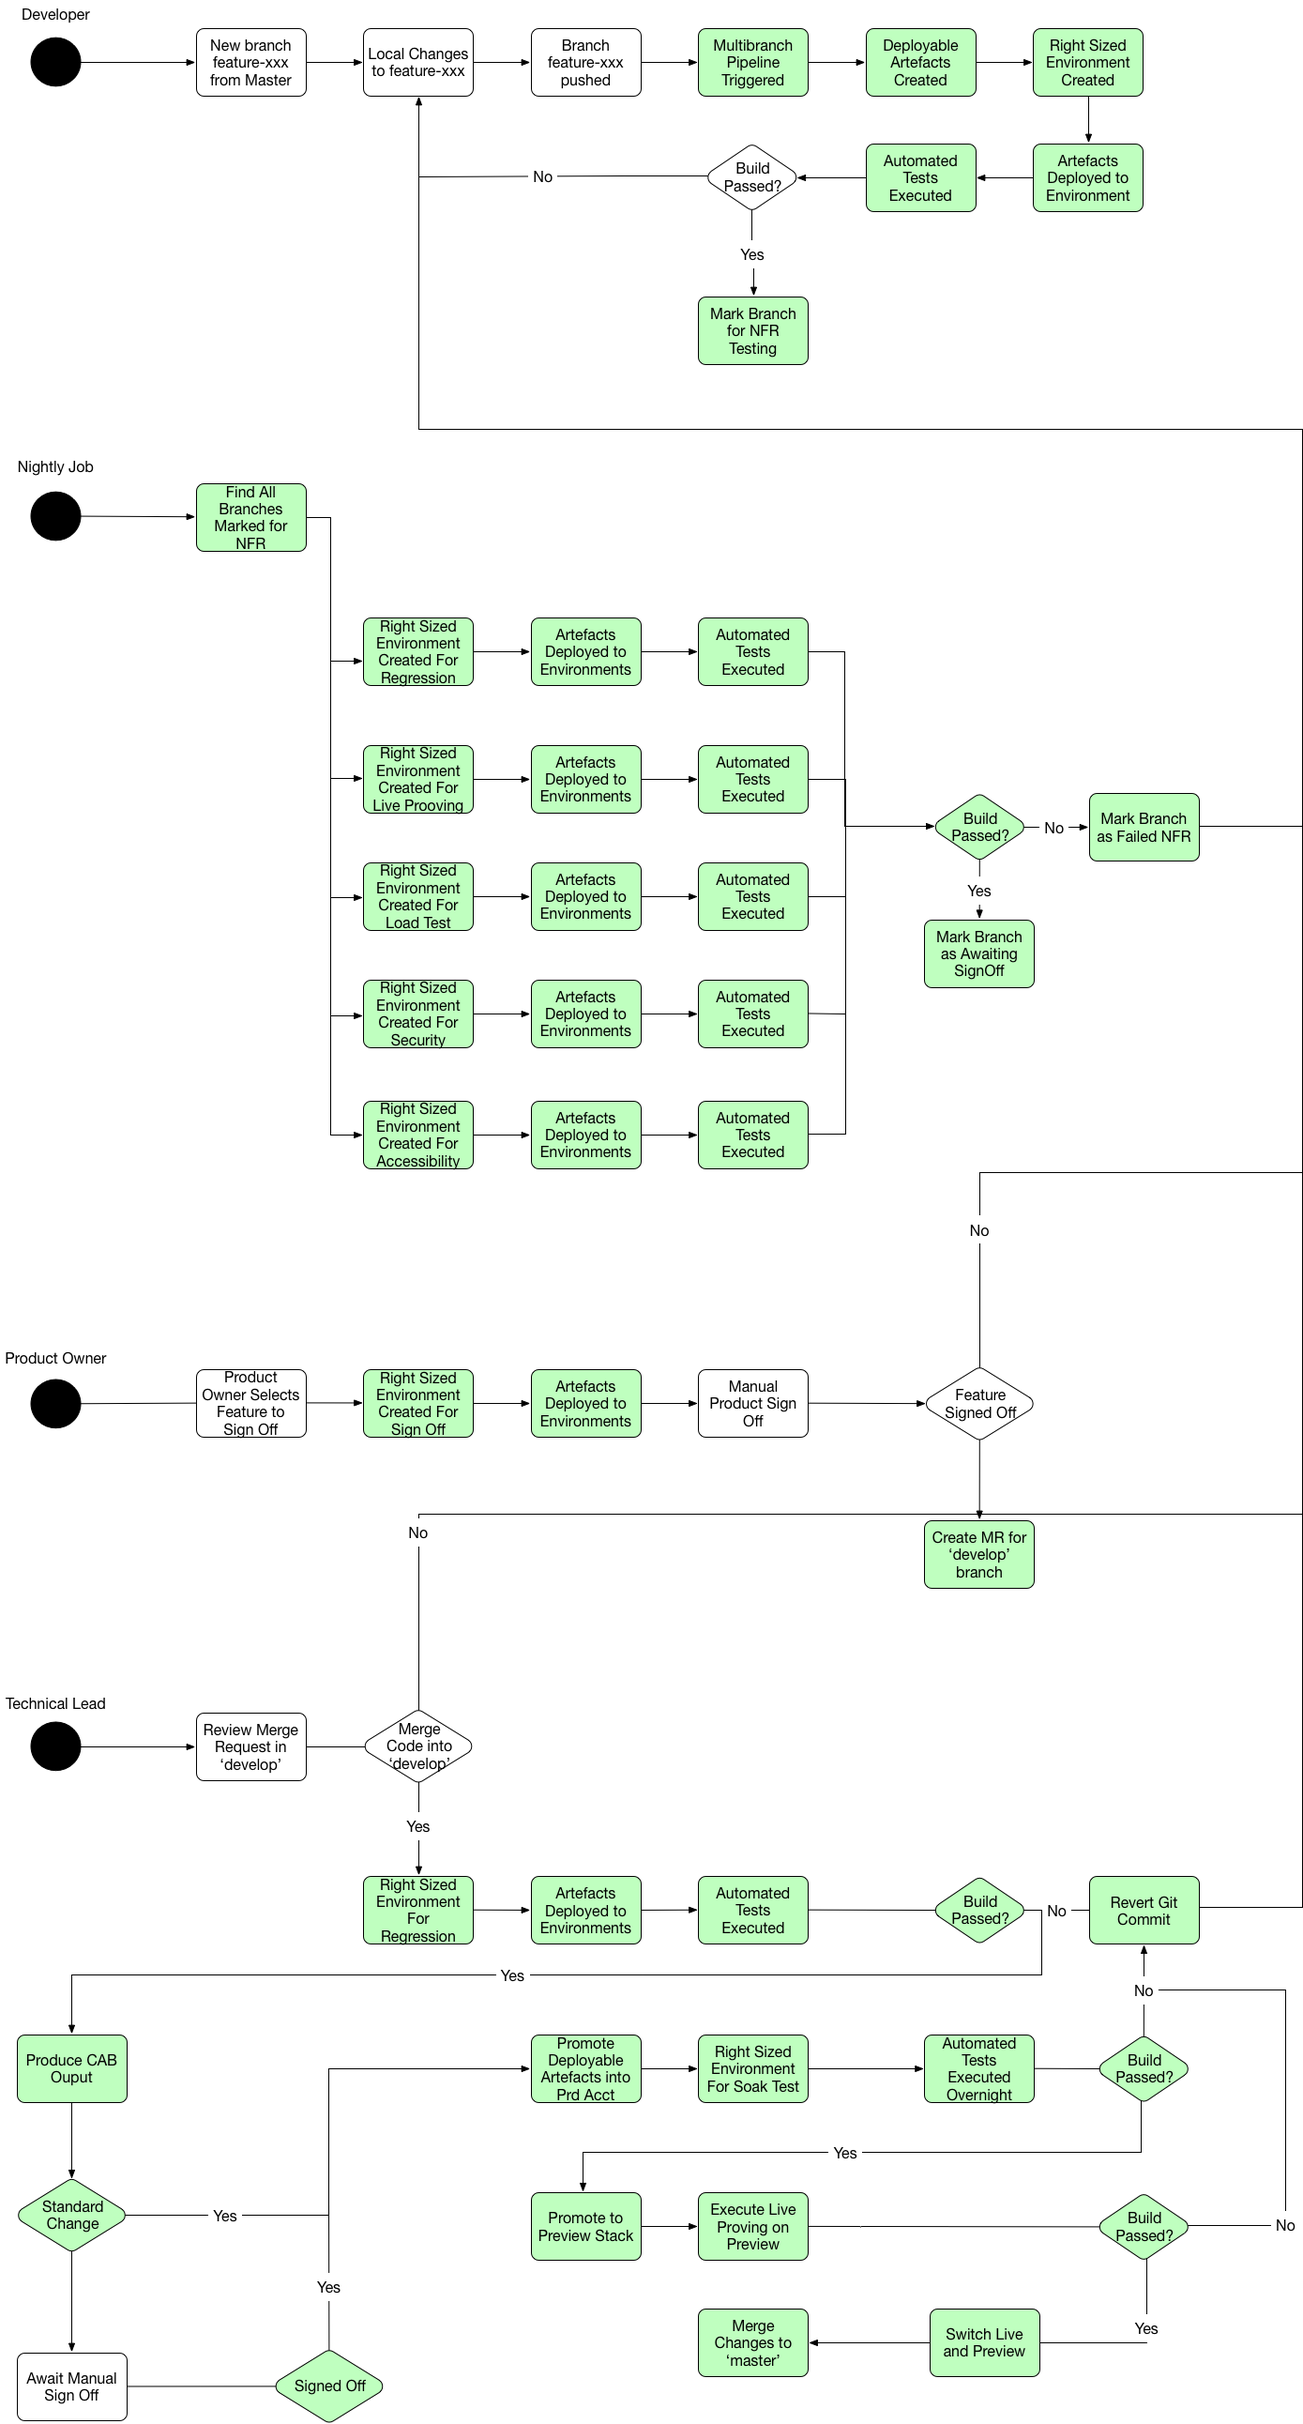
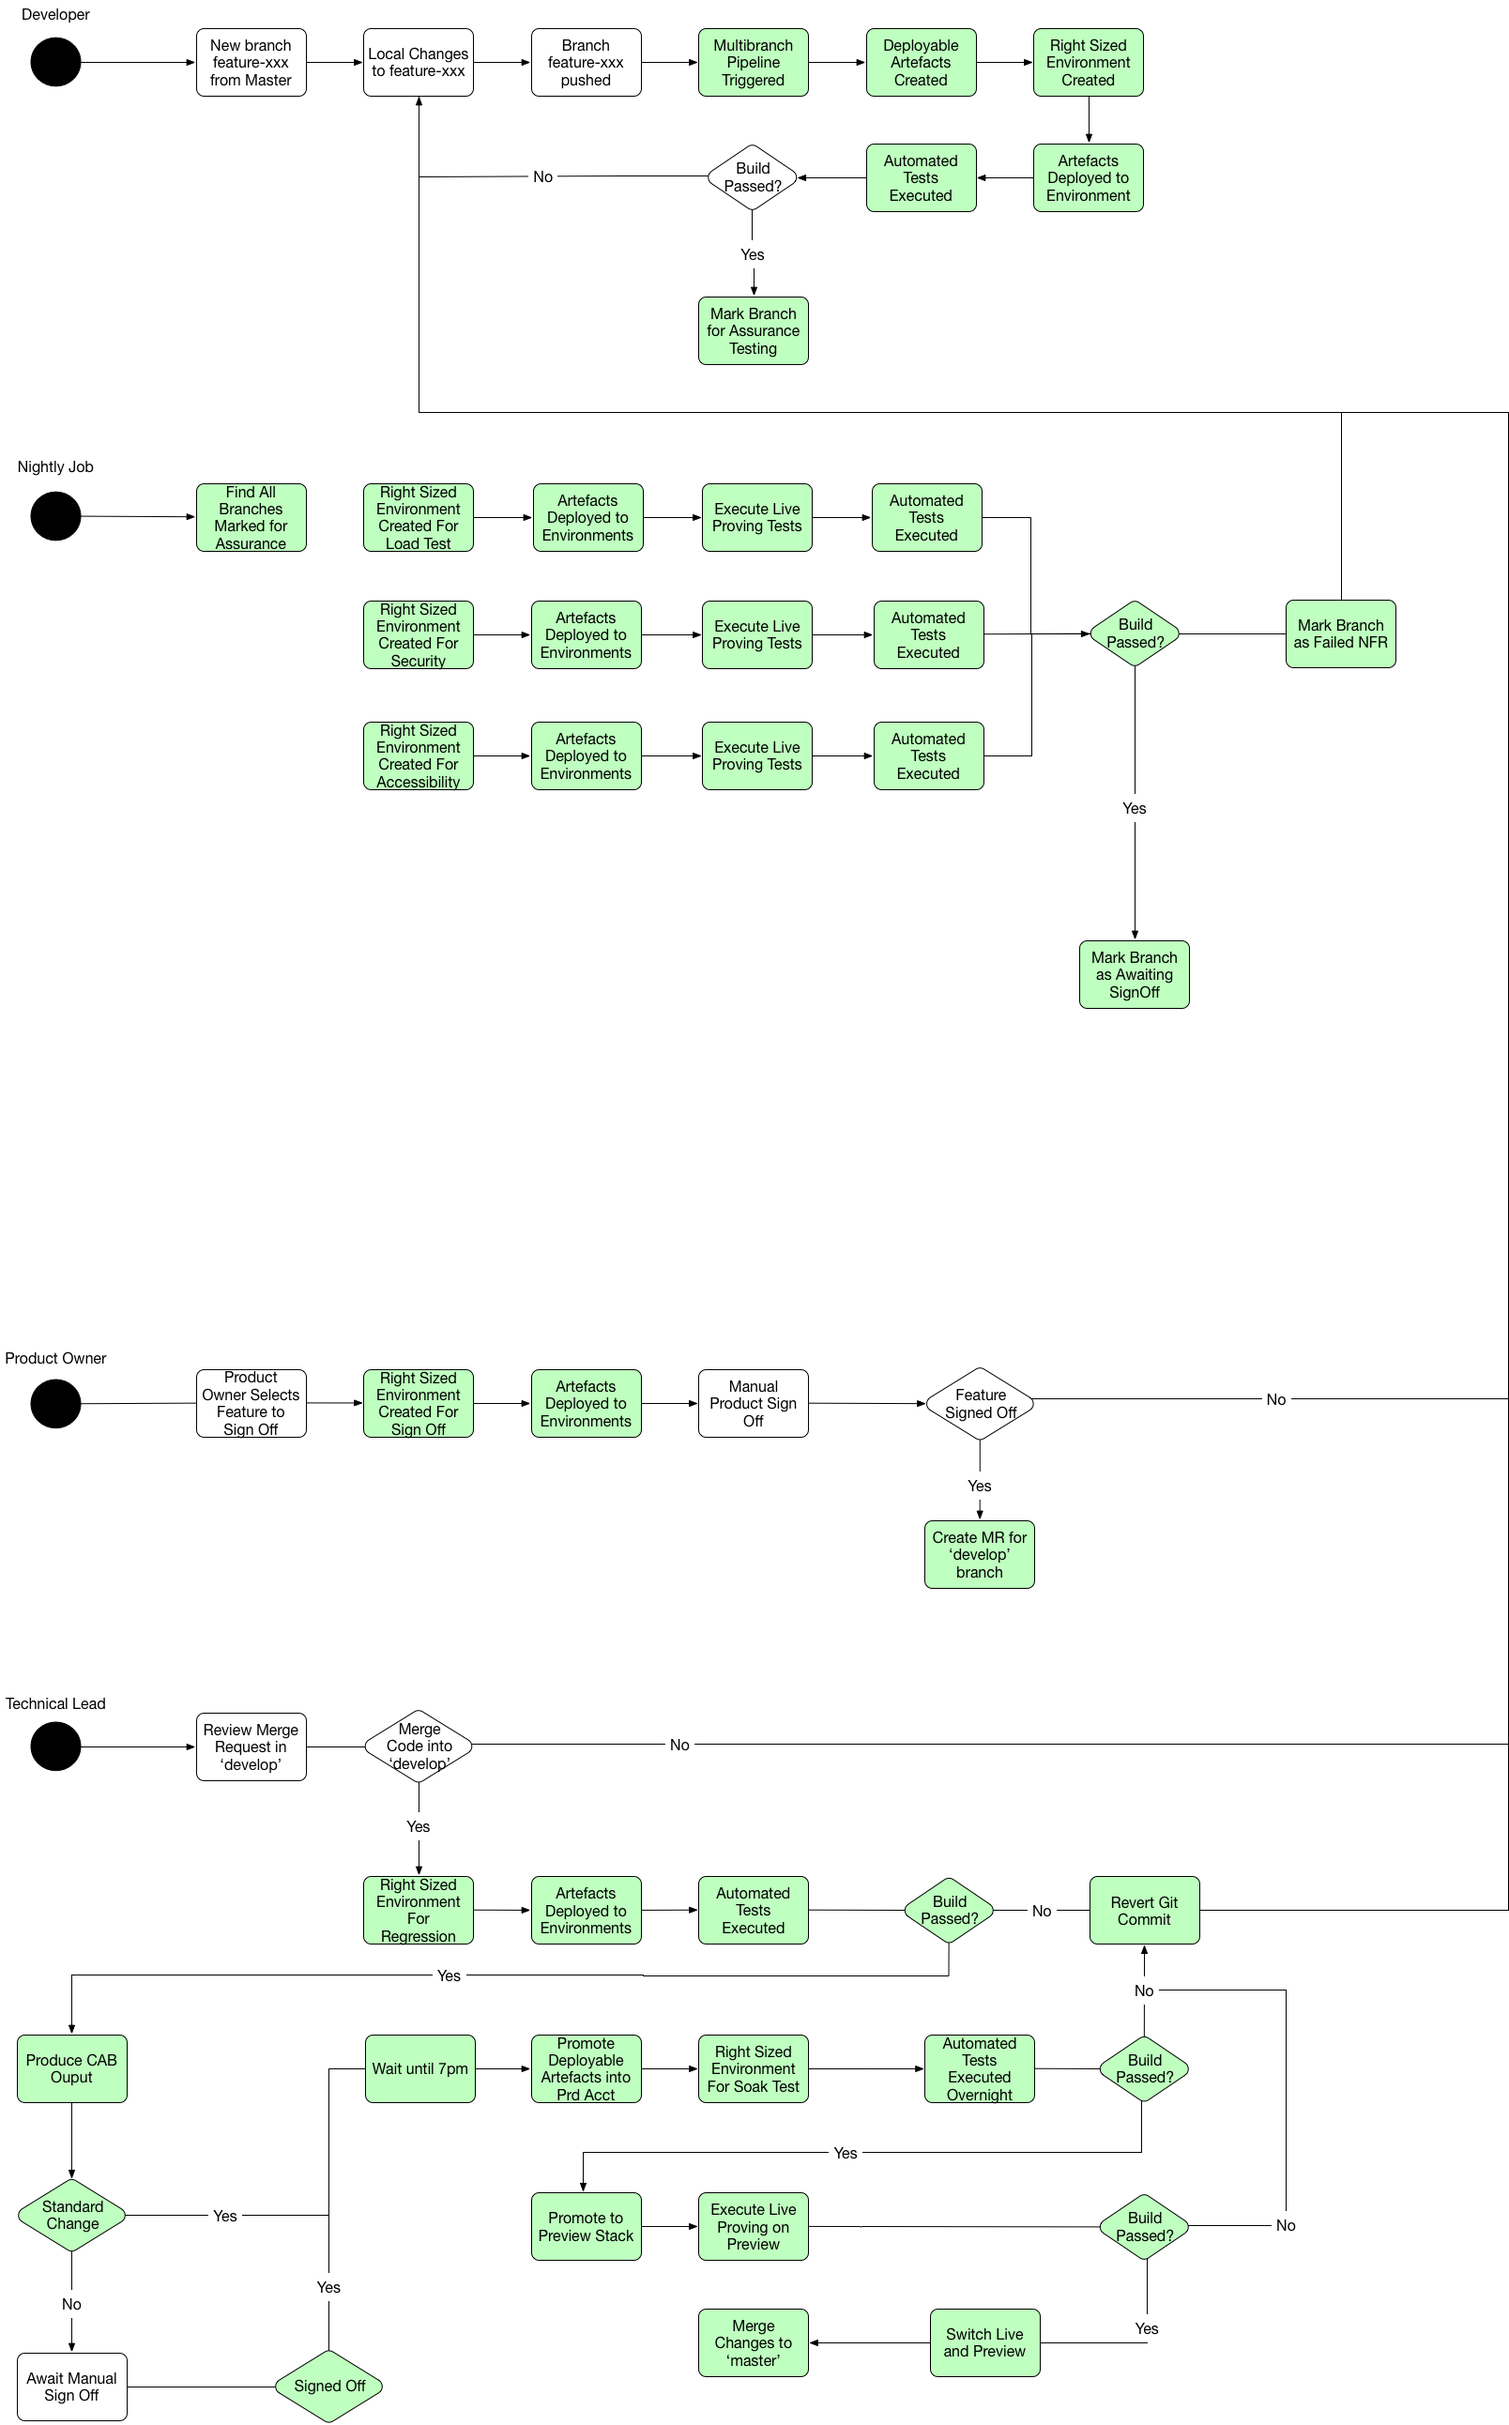
More refinements

diff --git a/source/documentation/pipeline/pipeline.md b/source/documentation/pipeline/pipeline.md
@@ -35,44 +35,50 @@ It was stated at the outset that it should be possible to deliver software into 
 
 The thrust of the new pipeline is not to necessarily remove steps, as Acceptance, Non Functional Testing, Deployment Testing are valid tests. The intention here is to provide an automated way of executing these stages and a means to execute them a lot earlier in the process. 
 
-An adpatation of the existing merging strategy is to move more towards the Gitflow(https://datasift.github.io/gitflow/IntroducingGitFlow.html) Merging into the 'develop' branch is the trigger for that code to make its way into production. It should only be merged into 'develop' once functional and non-functional testing has been successfully executed. The full flow is defined below.
+An adpatation of the existing merging strategy is to move more towards the [Gitflow](https://datasift.github.io/gitflow/IntroducingGitFlow.html) merging strategy. Merging into the 'develop' branch is the trigger for that code to make its way into production. It should only be merged into 'develop' once functional and non-functional testing has been successfully executed. The full flow is defined below.
 
 ![pipeline_target](images/pipeline_proposed.png)
 
-Whilst this is a relatively long winded process diagram, the green boxes are assumed to be automated. There should be minimal manual intervention. Redudcing the manual input would allow the automated testing to complete during the day, a final Performance Soak Test to be performed overnight and then appear in Production the next day after sign off.
+Whilst this is a relatively long winded process diagram, the green boxes are assumed to be automated. There should be minimal manual intervention. 
+
+The two key significant manual steps are the PO sign off and the Tech Lead merge into Develop. The point at which the feature is merged into Develop the feature will be live that evening, this is the point of no return and all downstream tasks are automated. 
+
+If, for any reason, there is a failure, either the Soak Test or Live Proving, then the entire suit of commits will be reverted. Again an automated process with zero manual intervention.
 
 ## Transition to the New Pipeline
 
-Comparing the two flow diagrams side by side, demonstrates that there is a significant distance to travel to achieve our targetted deployment pipeline. The intention of this section is to identify at a high level the necessary steps to achieve this.
+Comparing the two flow diagrams side by side, demonstrates that there is a significant distance to travel to achieve our targeted deployment pipeline. The intention of this section is to identify at a high level the necessary steps to achieve this.
 
-The underpinning pre-requisite to achieve all this is a consistent environment, yet this needs to be delivered in a backdrop of running a live service and delivering new features for that service.
+This entire improvement is predicated on consistent environments. The only way to confidently push changes from development through to production is by having complete faith that the application with behave the same in each 'environment'. Whilst tempting to start again and rebuild everything and halting all feature changes, this is not reasonable. The challenge is therefore to deliver continuous delivery, whilst maintaining feature releases.  
 
-### Adjust Development Pipeline
+Therefore, the first task to consider is adjusting the pipeline to cater for both these requirements in parallel. 
+
+### Adjust Existing Development Pipeline
 
 A new development pipeline has been created, as shown below
 
 ![pipe_dev(../images/pipeline_dev_mbp.png)](images/pipeline_dev_mbp.png)
 
-This will deploy our development code into a target consistent environment for each branch and for each commit. More detail about the new development pipeline can be found [here] (/documentation/pipeline/dev_mbp)
+This will deploy our development code into a target consistent environment for each branch and for each commit. More detail about the new development pipeline can be found [here] (pipeline#development-pipeline)
 
 
-The objective is for the live service to operate the same target consistent environment as the one being used by the new development environment. This requires a complete rebuilding of the Production environment, but that is impossible to do whilst supporting feature releases and an existing live service. 
+The objective is for the live service to operate the same target consistent environment as the one being used by the new development environment. This requires a complete rebuild of the Production environment, but that is impossible to do whilst supporting feature releases and an existing live service. 
 
-Additionally attempting to replace one of the existing environments in the pipeline with a new consistent environment, would dramatically increase the risk of promotion from that new environment to an older inconsistent environment. 
+Additionally, introducing a new 'consistent' environment into a pipeline of inconsistent, yet well established environments, would dramatically increase the risk of problems arising during promotion from that new environment to an older inconsistent environment. 
 
-Therefore there needs to be a forked deployment pipeline, up until a point by which the Production environment can be built in a consistent image and then there will only be a single consistent pipeline. This is show below
+Therefore there needs to be a forked deployment pipeline, up until a point by which the Production environment can be built in a consistent image and then there will only be a single consistent pipeline. This is shown below
 
 ![step_2](images/pipeline_forked.png)
 
-The two pipelines will co-exist, up until a point where there is sufficient confidence in the new Live/Prd account that traffic can be switched to it. It is worth stating that until this happens, the full benefit of consistent environments will not be realised.
+The two pipelines will co-exist, up until a point where there is sufficient confidence in the new Live/Prd environment that traffic can be switched to it. It is worth stating that until this happens, the full benefits of consistent environments will not be realised.
 
 ### Build Live/Production Husk
 
 Now that the existing deployment pipeline has been adjusted. The next step is to build a Husk environment that will ultimately replace the Production environment. For the purposes of clarification this will be referred to as Live/Production (Aws_Account/Environment) Account. Once this is built it will be possible to fork the deployment pipeline to not only deliver changes to the existing environments, but also deliver them to Live/Production
 
-This is covered by the epic https://jira.i-env.net/browse/OPSTEAM-882
+This is covered by the epic [jira ticket](https://jira.i-env.net/browse/OPSTEAM-882)
 
-The pipeline should also be adjusted at this point, to automatically promote from the Int environment through to the Live/Prd environment too. More detailed information about the promotion process can be found [here] (/documentation/pipeline/promotion_process)
+The pipeline should also be adjusted at this point, to automatically promote from the Int environment through to the Live/Prd environment too. More detailed information about the promotion process can be found [here] (pipeline#promotion-process)
 
 Once we have the forked pipeline, the focus will then need to be on enhancing the pipeline to incorporate as many automated steps as per the target pipeline. Each automated step, removes any manual steps and moves towards a genuine continuous delivery pipeline.
 

diff --git a/source/documentation/pipeline/dev_mbp.md b/source/documentation/pipeline/dev_mbp.md
@@ -1,0 +1,1 @@
+#Development Pipeline
